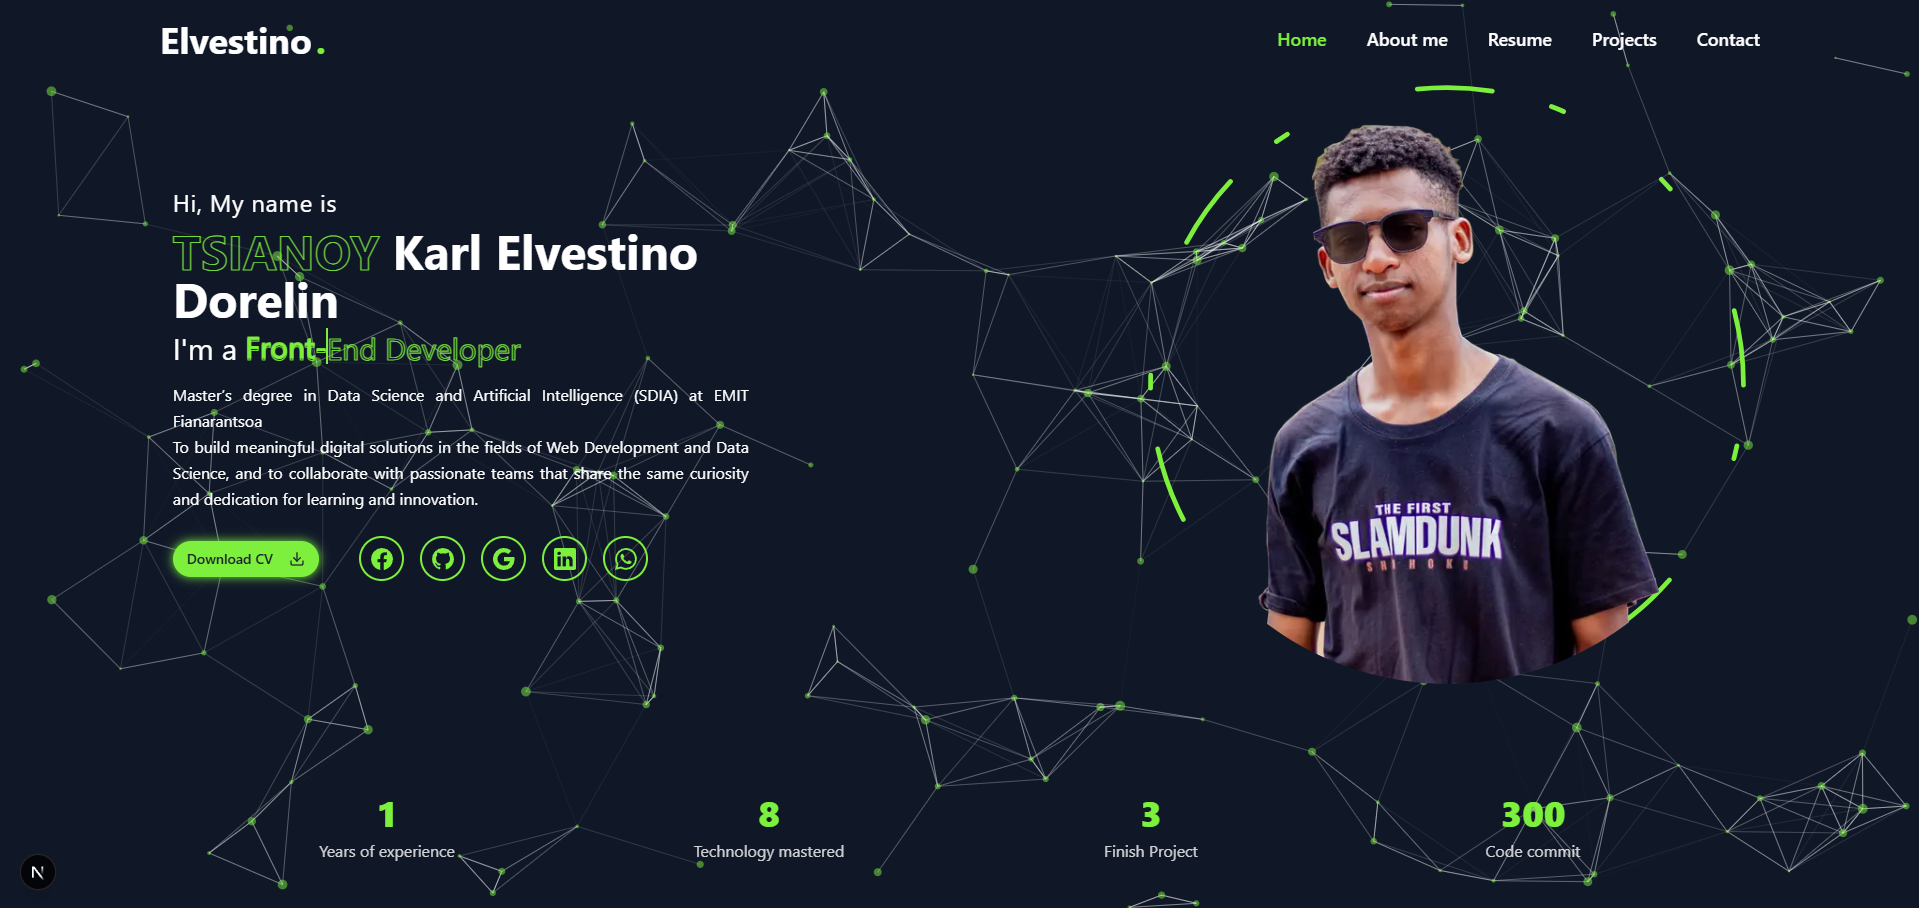
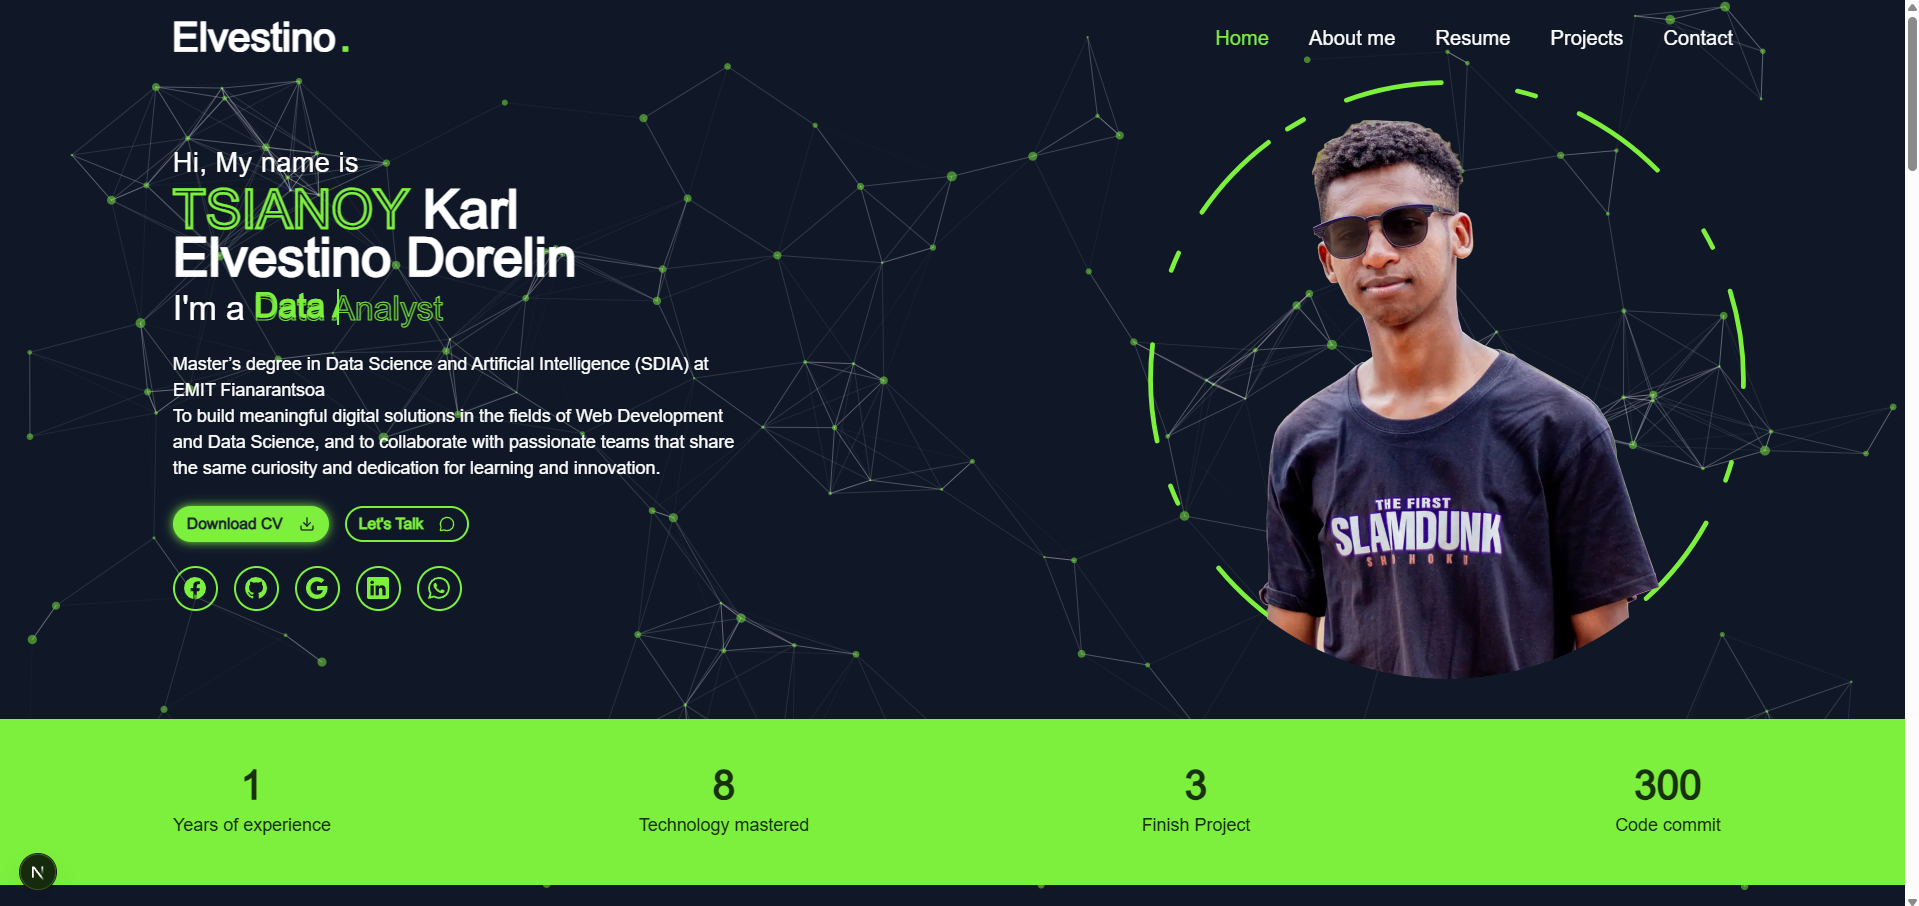
rectify max-width

diff --git a/src/app/components/stats/Stats.tsx b/src/app/components/stats/Stats.tsx
@@ -11,7 +11,7 @@ export default function Stats() {
 
   return (
     <section className="relative py-5 md:py-12 overflow-hidden my-10 md:my-10 bg-[#7cf03d]">
-      <div className="container mx-auto px-4">
+      <div className=" mx-auto px-7">
         {/* Responsive grid */}
         <div className="grid grid-cols-2 gap-6 md:grid-cols-4 text-center">
           {exp.map((item, index) => (
@@ -24,7 +24,7 @@ export default function Stats() {
                 end={item.num}
                 duration={3}
                 delay={0.5}
-                className="text-2xl sm:text-3xl md:text-4xl font-extrabold text-white"
+                className="text-2xl sm:text-3xl md:text-4xl font-extrabold text-black/80"
               />
               {/* Texte */}
               <p className="text-xs sm:text-sm md:text-base text-black/80 leading-snug">

diff --git a/src/app/pages/projects/Project.tsx b/src/app/pages/projects/Project.tsx
@@ -263,7 +263,7 @@ export default function ProjectsSection() {
       </div>
 
       {/* ---------------- Grille des projets version normal ---------------- */}
-      <div className="hidden sm:grid grid-cols-1 sm:grid-cols-2 lg:grid-cols-3 gap-6 max-md:">
+      <div className="hidden sm:grid grid-cols-1 sm:grid-cols-2 lg:grid-cols-3 gap-6 md:mx-32">
         {currentCategory.projects.map((project, idx) => (
           <ProjectCard key={idx} project={project} />
         ))}

diff --git a/src/app/pages/Home/Home.tsx b/src/app/pages/Home/Home.tsx
@@ -55,7 +55,7 @@ export default function HomeSection() {
           </div>
 
           {/* Bouton + Réseaux */}
-          <div className="flex flex-col items-start mt-6 max-md:flex-col max-md:gap-4">
+          <div className="flex flex-col items-center md:items-start mt-6 max-md:flex-col max-md:gap-4">
             <div className="flex gap-4 mb-3">
               <DownloadCV />
               <LetsTalk />
